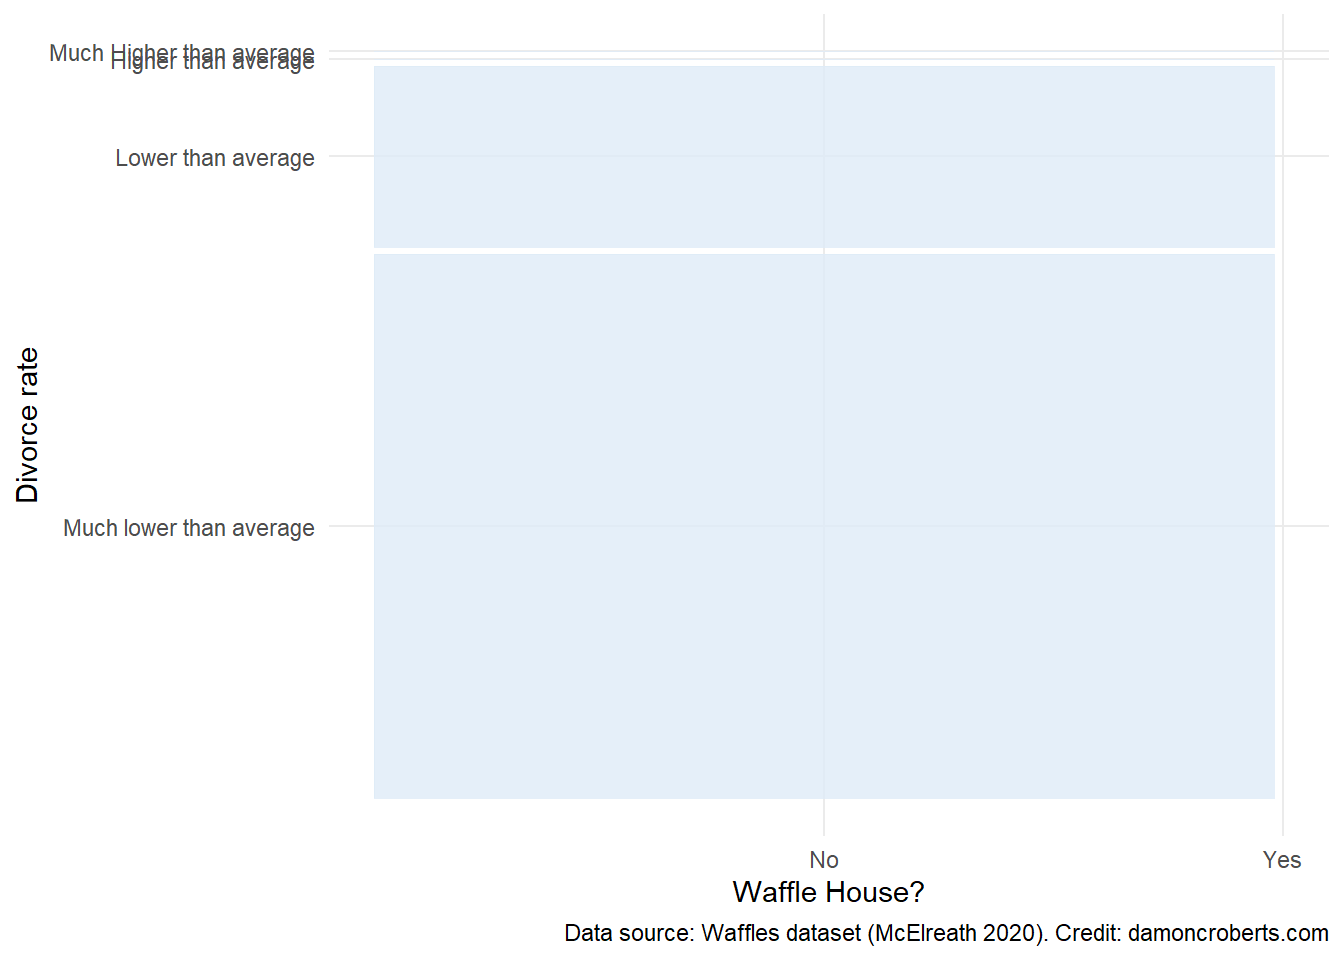
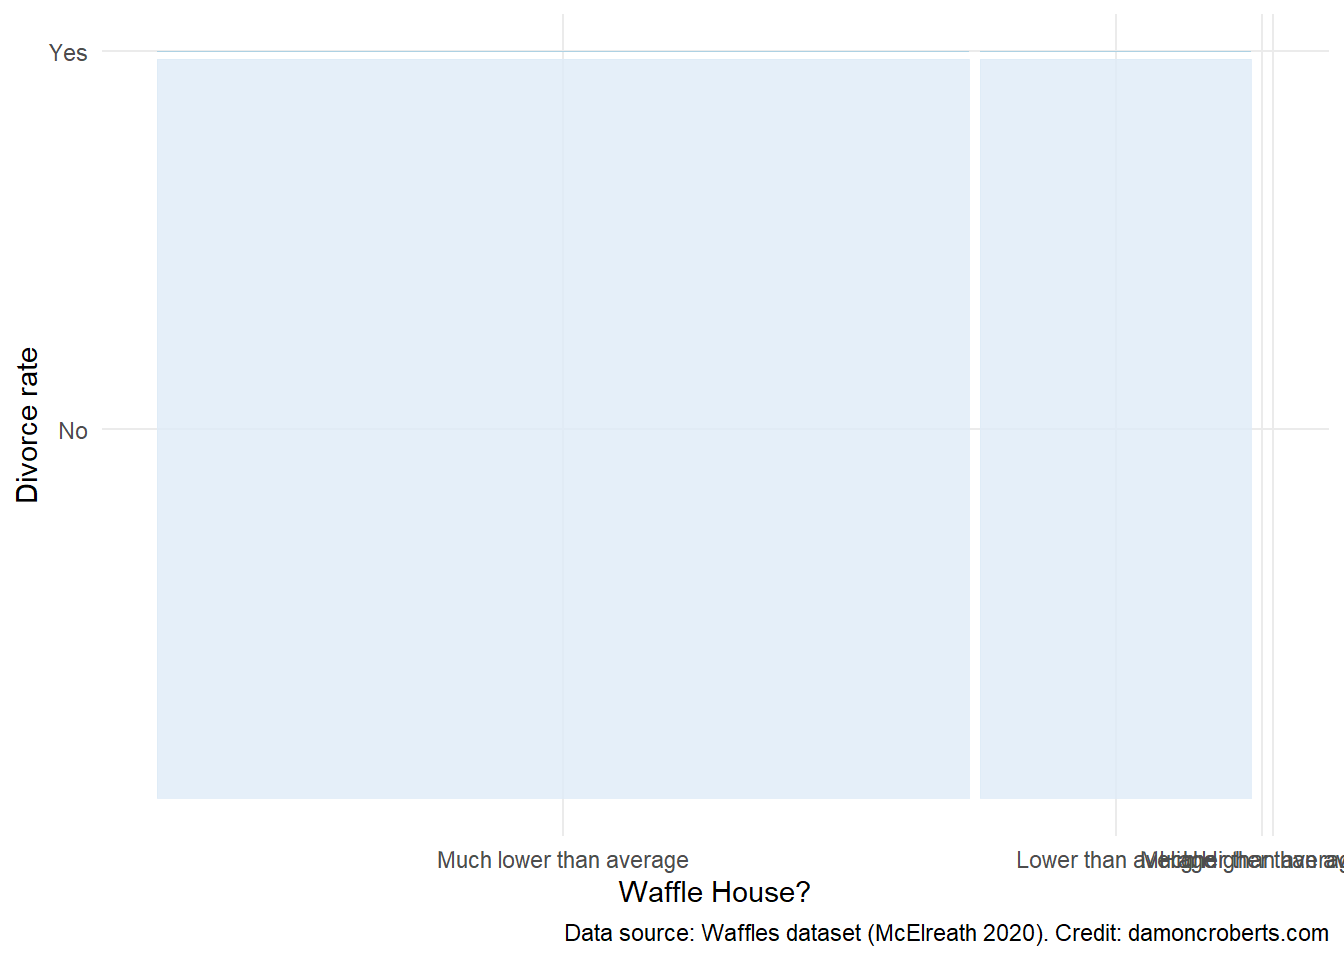
fix mosaic plots

diff --git a/_book/docs/12_bivariate_expectations.html b/_book/docs/12_bivariate_expectations.html
@@ -882,8 +882,8 @@ C --&gt; B
 <span id="cb7-4"><a href="#cb7-4" aria-hidden="true" tabindex="-1"></a>        <span class="fu">geom_mosaic</span>( <span class="co"># specifically a mosaic plot</span></span>
 <span id="cb7-5"><a href="#cb7-5" aria-hidden="true" tabindex="-1"></a>            <span class="fu">aes</span>( <span class="co"># for the axes </span></span>
 <span id="cb7-6"><a href="#cb7-6" aria-hidden="true" tabindex="-1"></a>                <span class="at">x =</span> <span class="fu">product</span>( <span class="co"># on the x axis, plot the combination of the following variables</span></span>
-<span id="cb7-7"><a href="#cb7-7" aria-hidden="true" tabindex="-1"></a>                    Divorce_Cat_Labelled, </span>
-<span id="cb7-8"><a href="#cb7-8" aria-hidden="true" tabindex="-1"></a>                    WaffleHouses_Cat</span>
+<span id="cb7-7"><a href="#cb7-7" aria-hidden="true" tabindex="-1"></a>                    WaffleHouses_Cat,</span>
+<span id="cb7-8"><a href="#cb7-8" aria-hidden="true" tabindex="-1"></a>                    Divorce_Cat_Labelled</span>
 <span id="cb7-9"><a href="#cb7-9" aria-hidden="true" tabindex="-1"></a>                ),</span>
 <span id="cb7-10"><a href="#cb7-10" aria-hidden="true" tabindex="-1"></a>                <span class="at">fill =</span> WaffleHouses_Cat <span class="co"># fill it with the Divorce_Cat variable</span></span>
 <span id="cb7-11"><a href="#cb7-11" aria-hidden="true" tabindex="-1"></a>            ),</span>
@@ -905,8 +905,8 @@ C --&gt; B
 <span id="cb7-27"><a href="#cb7-27" aria-hidden="true" tabindex="-1"></a>        <span class="fu">geom_mosaic</span>( <span class="co"># specifically a mosaic plot</span></span>
 <span id="cb7-28"><a href="#cb7-28" aria-hidden="true" tabindex="-1"></a>            <span class="fu">aes</span>( <span class="co"># for the axes </span></span>
 <span id="cb7-29"><a href="#cb7-29" aria-hidden="true" tabindex="-1"></a>                <span class="at">x =</span> <span class="fu">product</span>( <span class="co"># on the x axis, plot the combination of the following variables</span></span>
-<span id="cb7-30"><a href="#cb7-30" aria-hidden="true" tabindex="-1"></a>                    Divorce_Cat_Labelled, </span>
-<span id="cb7-31"><a href="#cb7-31" aria-hidden="true" tabindex="-1"></a>                    WaffleHouses_Cat</span>
+<span id="cb7-30"><a href="#cb7-30" aria-hidden="true" tabindex="-1"></a>                    WaffleHouses_Cat,</span>
+<span id="cb7-31"><a href="#cb7-31" aria-hidden="true" tabindex="-1"></a>                    Divorce_Cat_Labelled</span>
 <span id="cb7-32"><a href="#cb7-32" aria-hidden="true" tabindex="-1"></a>                ),</span>
 <span id="cb7-33"><a href="#cb7-33" aria-hidden="true" tabindex="-1"></a>                <span class="at">fill =</span> WaffleHouses_Cat <span class="co"># fill it with the Divorce_Cat variable</span></span>
 <span id="cb7-34"><a href="#cb7-34" aria-hidden="true" tabindex="-1"></a>            ),</span>
@@ -928,8 +928,8 @@ C --&gt; B
 <span id="cb7-50"><a href="#cb7-50" aria-hidden="true" tabindex="-1"></a>        <span class="fu">geom_mosaic</span>( <span class="co"># specifically a mosaic plot</span></span>
 <span id="cb7-51"><a href="#cb7-51" aria-hidden="true" tabindex="-1"></a>            <span class="fu">aes</span>( <span class="co"># for the axes </span></span>
 <span id="cb7-52"><a href="#cb7-52" aria-hidden="true" tabindex="-1"></a>                <span class="at">x =</span> <span class="fu">product</span>( <span class="co"># on the x axis, plot the combination of the following variables</span></span>
-<span id="cb7-53"><a href="#cb7-53" aria-hidden="true" tabindex="-1"></a>                    Divorce_Cat_Labelled, </span>
-<span id="cb7-54"><a href="#cb7-54" aria-hidden="true" tabindex="-1"></a>                    WaffleHouses_Cat</span>
+<span id="cb7-53"><a href="#cb7-53" aria-hidden="true" tabindex="-1"></a>                    WaffleHouses_Cat,</span>
+<span id="cb7-54"><a href="#cb7-54" aria-hidden="true" tabindex="-1"></a>                    Divorce_Cat_Labelled</span>
 <span id="cb7-55"><a href="#cb7-55" aria-hidden="true" tabindex="-1"></a>                ),</span>
 <span id="cb7-56"><a href="#cb7-56" aria-hidden="true" tabindex="-1"></a>                <span class="at">fill =</span> WaffleHouses_Cat <span class="co"># fill it with the Divorce_Cat variable</span></span>
 <span id="cb7-57"><a href="#cb7-57" aria-hidden="true" tabindex="-1"></a>            ),</span>
@@ -951,8 +951,8 @@ C --&gt; B
 <span id="cb7-73"><a href="#cb7-73" aria-hidden="true" tabindex="-1"></a>        <span class="fu">geom_mosaic</span>( <span class="co"># specifically a mosaic plot</span></span>
 <span id="cb7-74"><a href="#cb7-74" aria-hidden="true" tabindex="-1"></a>            <span class="fu">aes</span>( <span class="co"># for the axes </span></span>
 <span id="cb7-75"><a href="#cb7-75" aria-hidden="true" tabindex="-1"></a>                <span class="at">x =</span> <span class="fu">product</span>( <span class="co"># on the x axis, plot the combination of the following variables</span></span>
-<span id="cb7-76"><a href="#cb7-76" aria-hidden="true" tabindex="-1"></a>                    Divorce_Cat_Labelled, </span>
-<span id="cb7-77"><a href="#cb7-77" aria-hidden="true" tabindex="-1"></a>                    WaffleHouses_Cat</span>
+<span id="cb7-76"><a href="#cb7-76" aria-hidden="true" tabindex="-1"></a>                    WaffleHouses_Cat,</span>
+<span id="cb7-77"><a href="#cb7-77" aria-hidden="true" tabindex="-1"></a>                    Divorce_Cat_Labelled</span>
 <span id="cb7-78"><a href="#cb7-78" aria-hidden="true" tabindex="-1"></a>                ),</span>
 <span id="cb7-79"><a href="#cb7-79" aria-hidden="true" tabindex="-1"></a>                <span class="at">fill =</span> WaffleHouses_Cat <span class="co"># fill it with the Divorce_Cat variable</span></span>
 <span id="cb7-80"><a href="#cb7-80" aria-hidden="true" tabindex="-1"></a>            ),</span>
